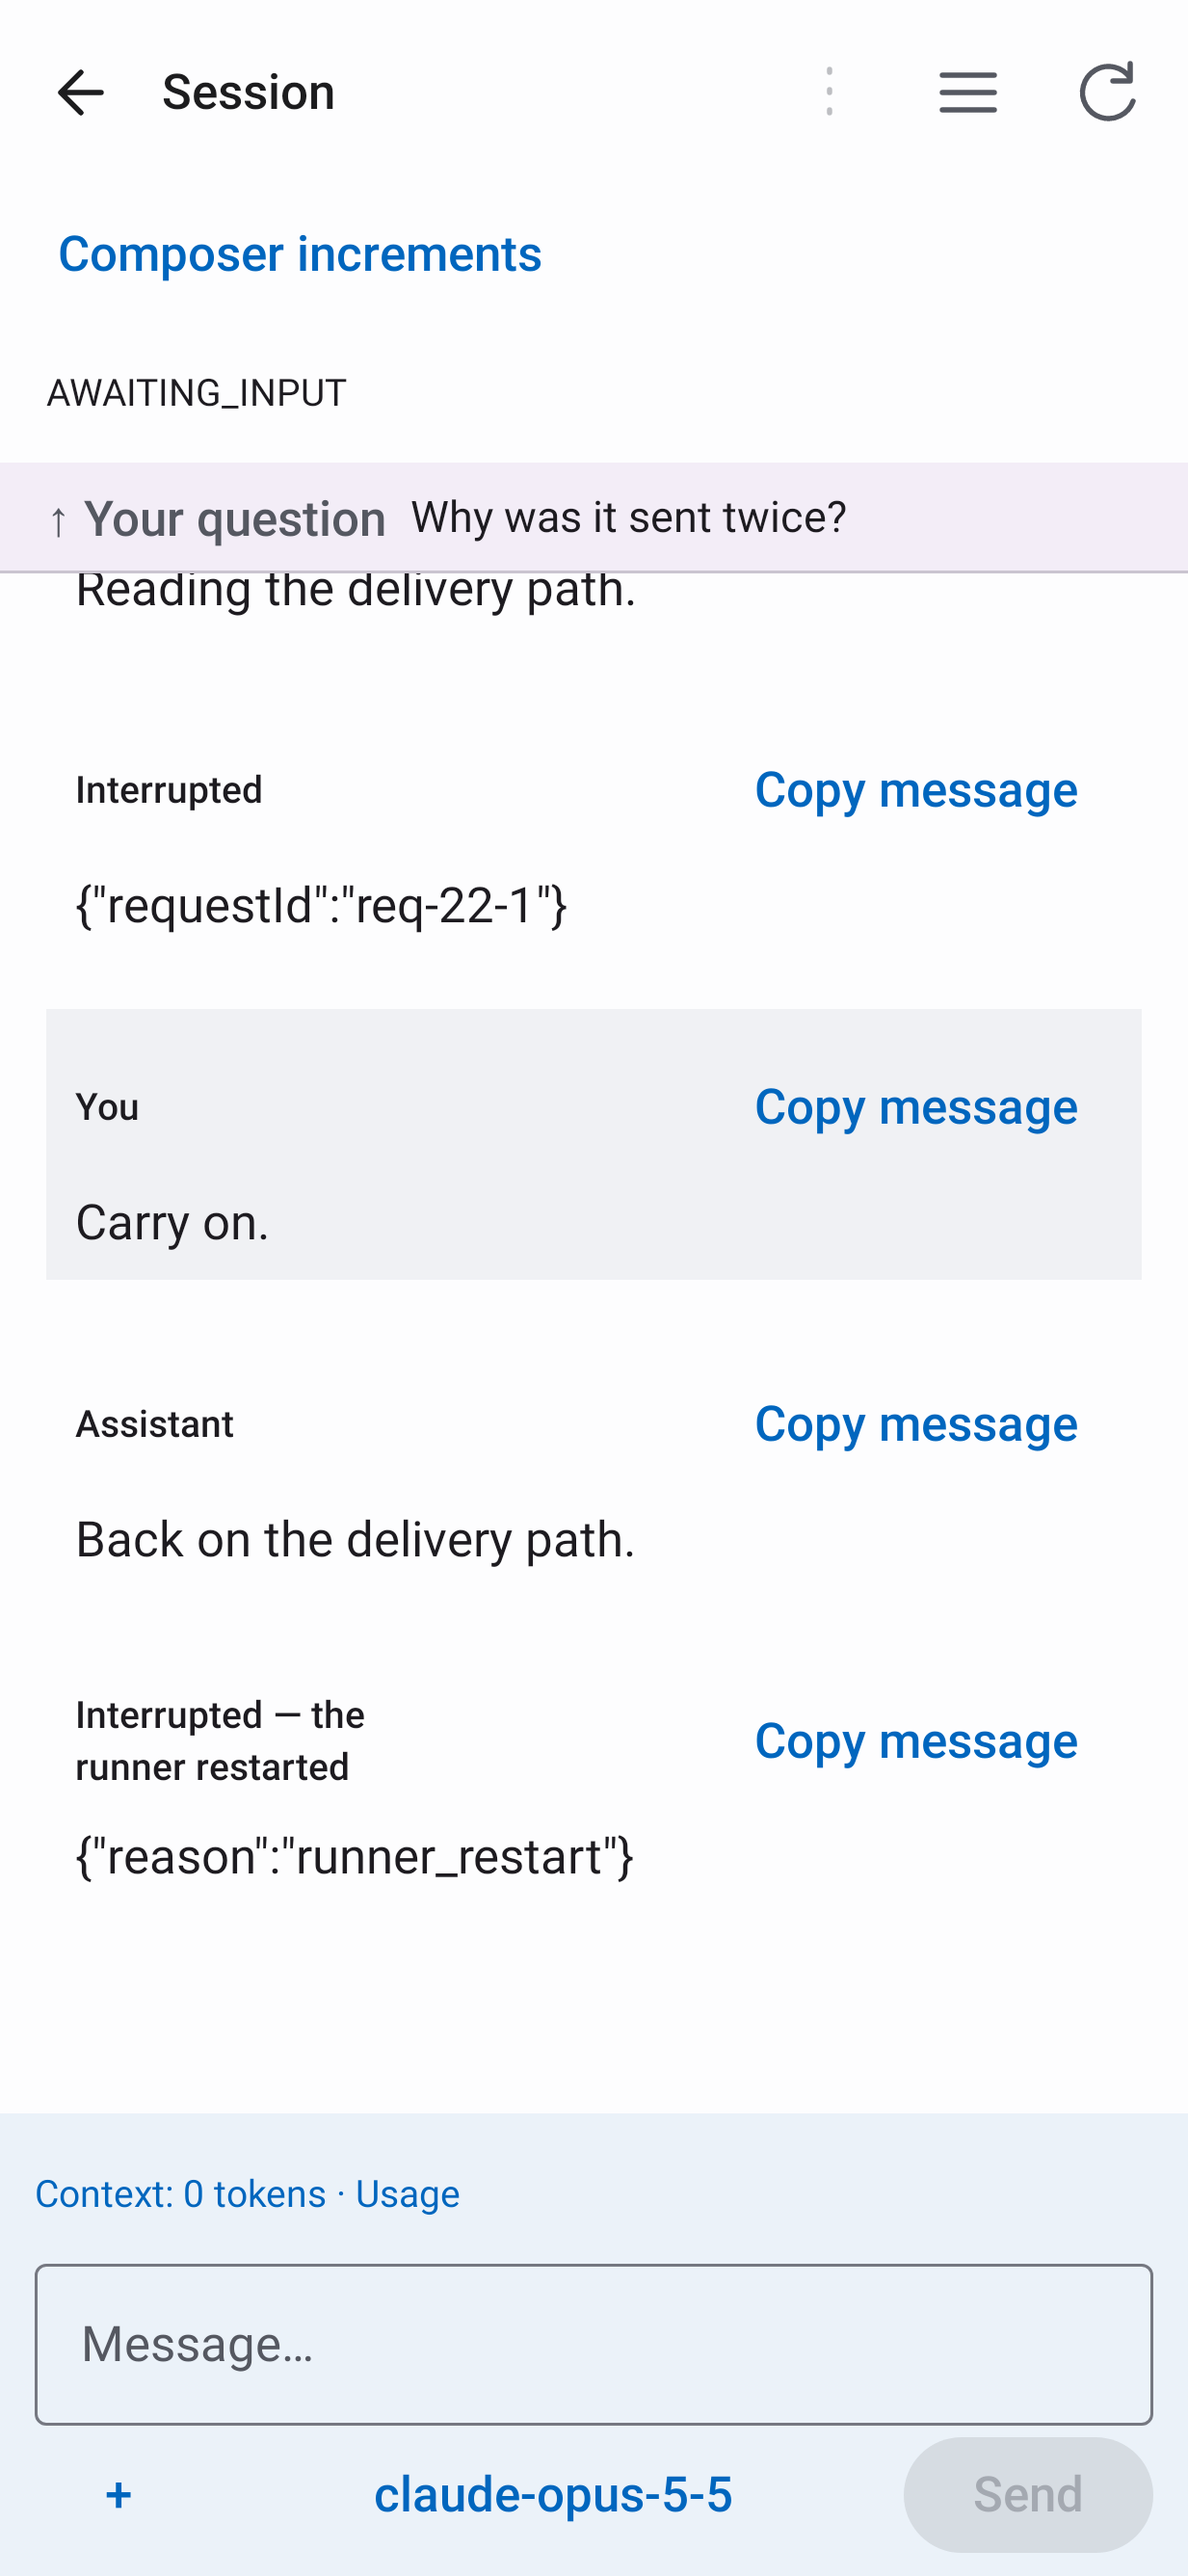
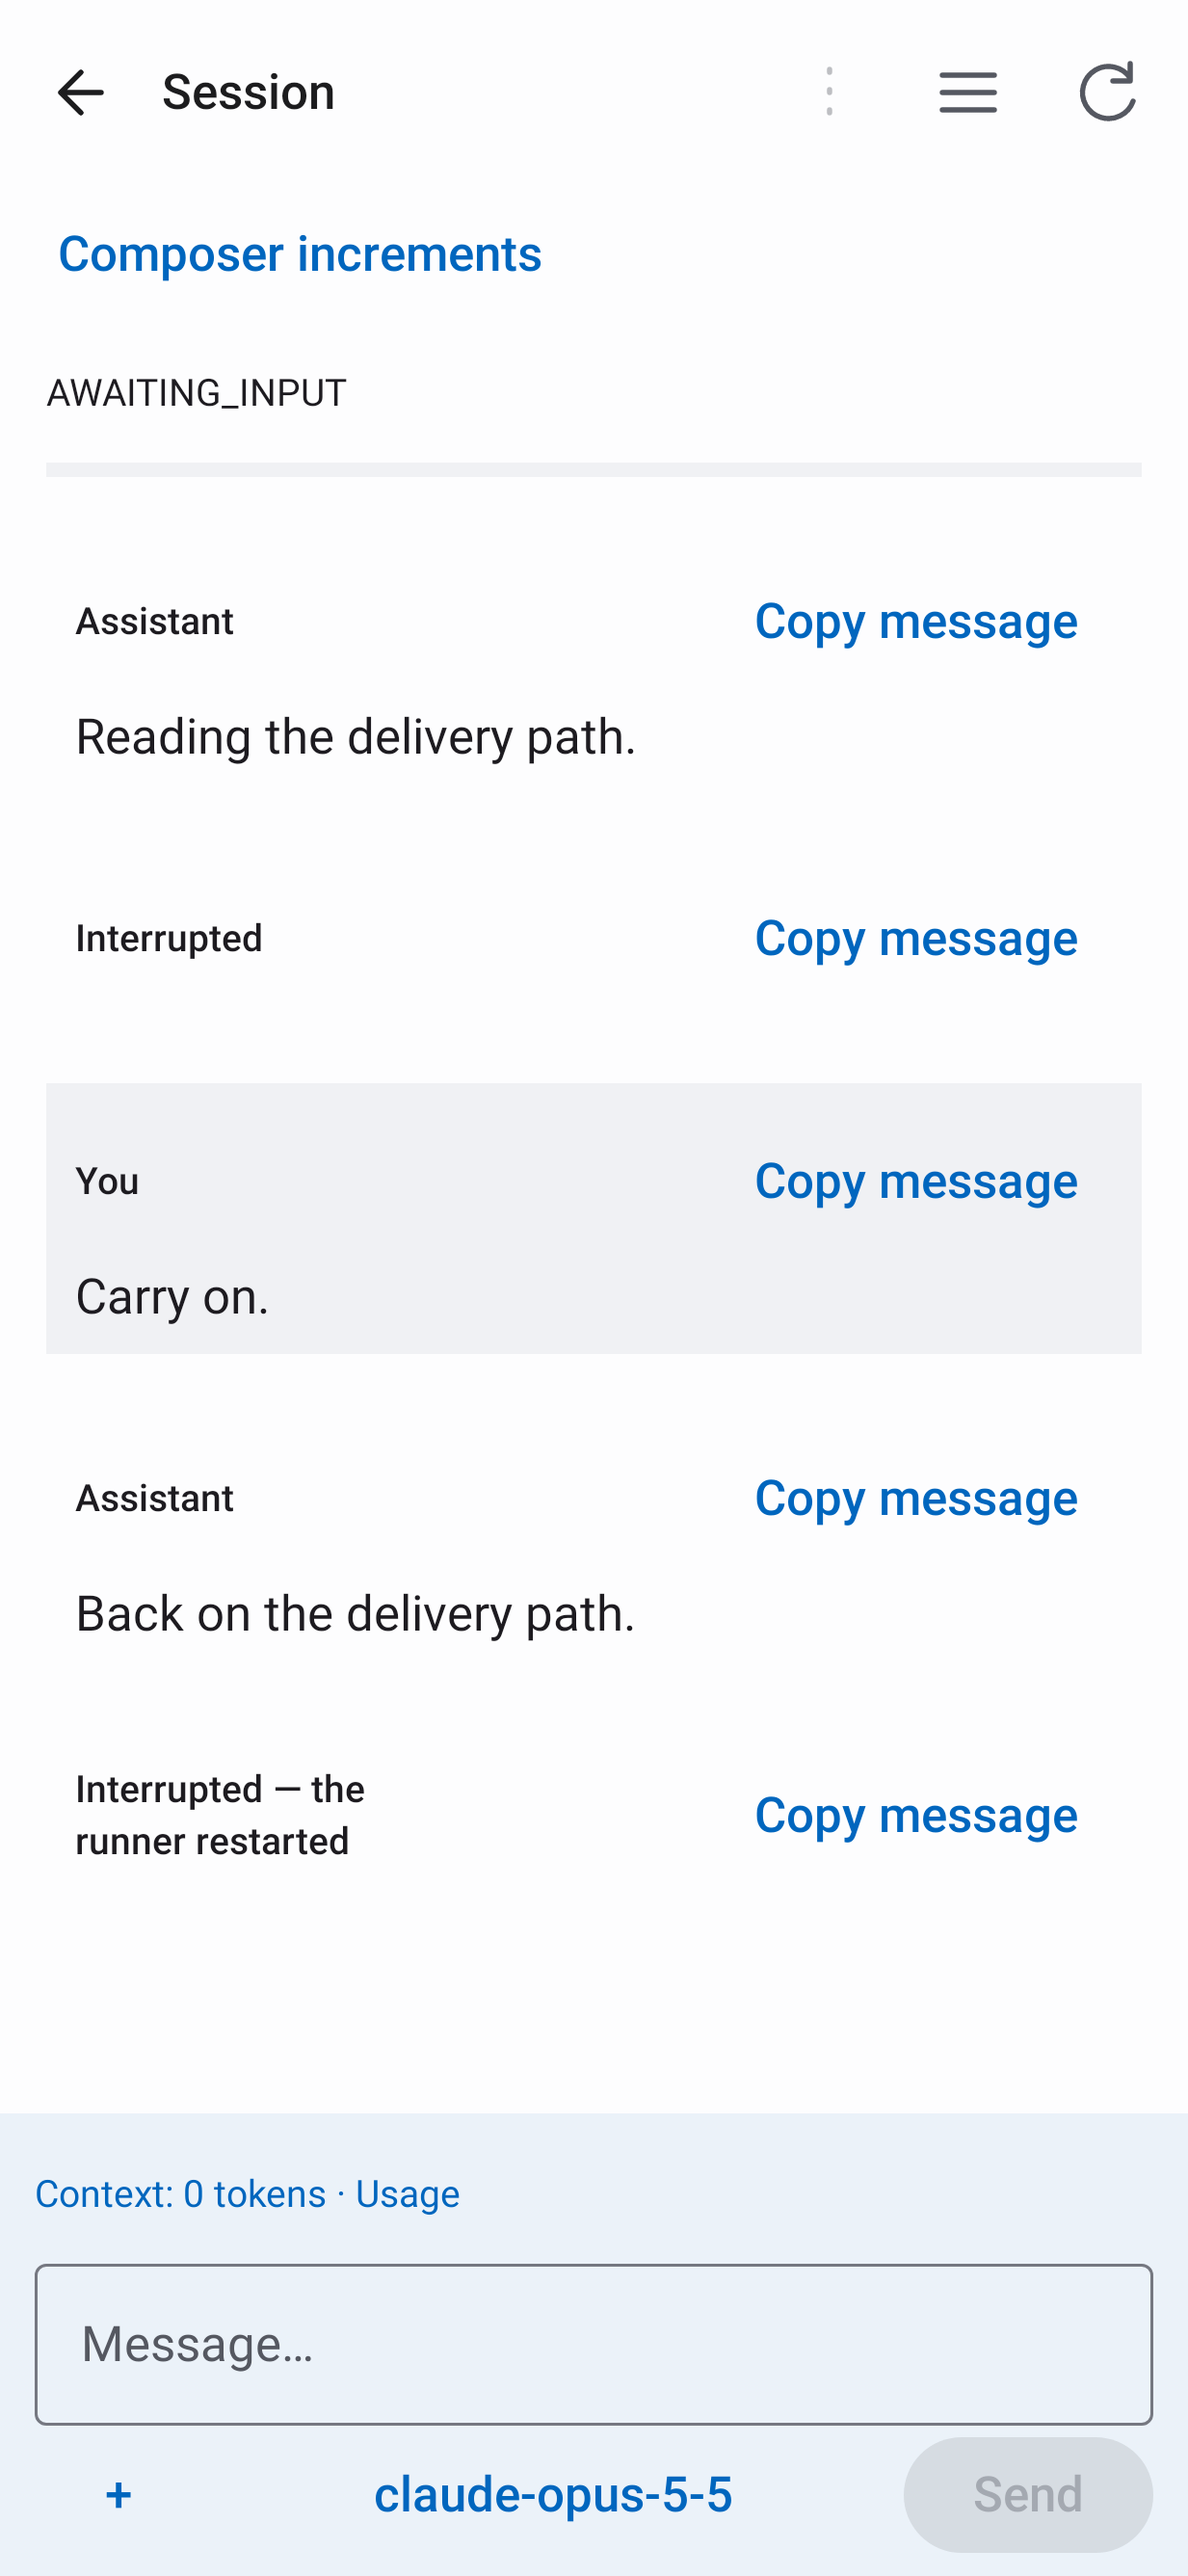
docs(evidence): Android's interrupt rows retaken without their payload
android-after.png and its semantics tree come from InterruptRowsTest on
the fix (run 38999624606, branch probe/interrupt-payload-after, never
merged): "Interrupted" and "Interrupted — the runner restarted" with
nothing under either title. The README no longer says Android prints
the raw payload.

diff --git a/docs/evidence/interrupt-rows/README.md b/docs/evidence/interrupt-rows/README.md
@@ -20,7 +20,7 @@ Every picture shows one conversation holding both interrupts, with the two paylo
 | `ios-after-light.png`, `ios-after-dark.png` | iPhone, the change: `Interrupted`, then `Interrupted — the runner restarted` |
 | `mac-before-light.png` | The Mac app's window, before: both rows read `Interrupted` |
 | `mac-after-light.png`, `mac-after-dark.png` | The Mac app's window, the change |
-| `android-after.png` | Android's session page, the change (`android-after-semantics.txt` is its semantics tree) |
+| `android-after.png` | Android's session page, the change, retaken once task 34hGdSoCnMMCn9iYhSwbB stopped the rows printing their raw payload (`android-after-semantics.txt` is its semantics tree; ca24298c6 holds the first picture) |
 | `web-after-light.png` | The web transcript, the change |
 
 `accessibility.txt` lists every iPhone and Mac element whose words begin "Interrupted", before and
@@ -37,8 +37,10 @@ after, as XCUITest read them beside each picture.
   its iOS gate.
 - **Android:** `InterruptRowsTest` (app unit tests) opens the production `MainActivity` session page
   over `ComposerShell`'s fake reads. It renders with Robolectric's native graphics at 411×891 dp,
-  xxhdpi, asserts both rows' titles, and writes the PNG. In the same run, `scripts/verify.sh`
-  passed: 3141 local tests, lint and the debug APK.
+  xxhdpi, asserts both rows' titles and that neither row prints its payload, and writes the PNG.
+  The first picture's run also passed `scripts/verify.sh`: 3141 local tests, lint and the debug APK.
+  The picture here was retaken in run 38999624606, which ran `InterruptRowsTest` alone from the
+  never-merged branch `probe/interrupt-payload-after`.
 - **Web:** the `Transcript` component's markup for the same conversation, styled by `index.css` and
   photographed with headless Chromium. `Transcript.test.tsx` pins both rows'
   words (`npx vitest run src/components/Transcript.test.tsx`).
@@ -47,6 +49,3 @@ after, as XCUITest read them beside each picture.
 
 - The iPhone pictures come from the simulator, not the owner's phone. The Android picture is a
   Robolectric rendering, not an emulator or device screenshot.
-- Android still prints each interrupt row's raw payload (`{"requestId":…}`, `{"reason":"runner_restart"}`)
-  under the row's title. That line was there before this change, for every interrupt, and it is left
-  as it was.
